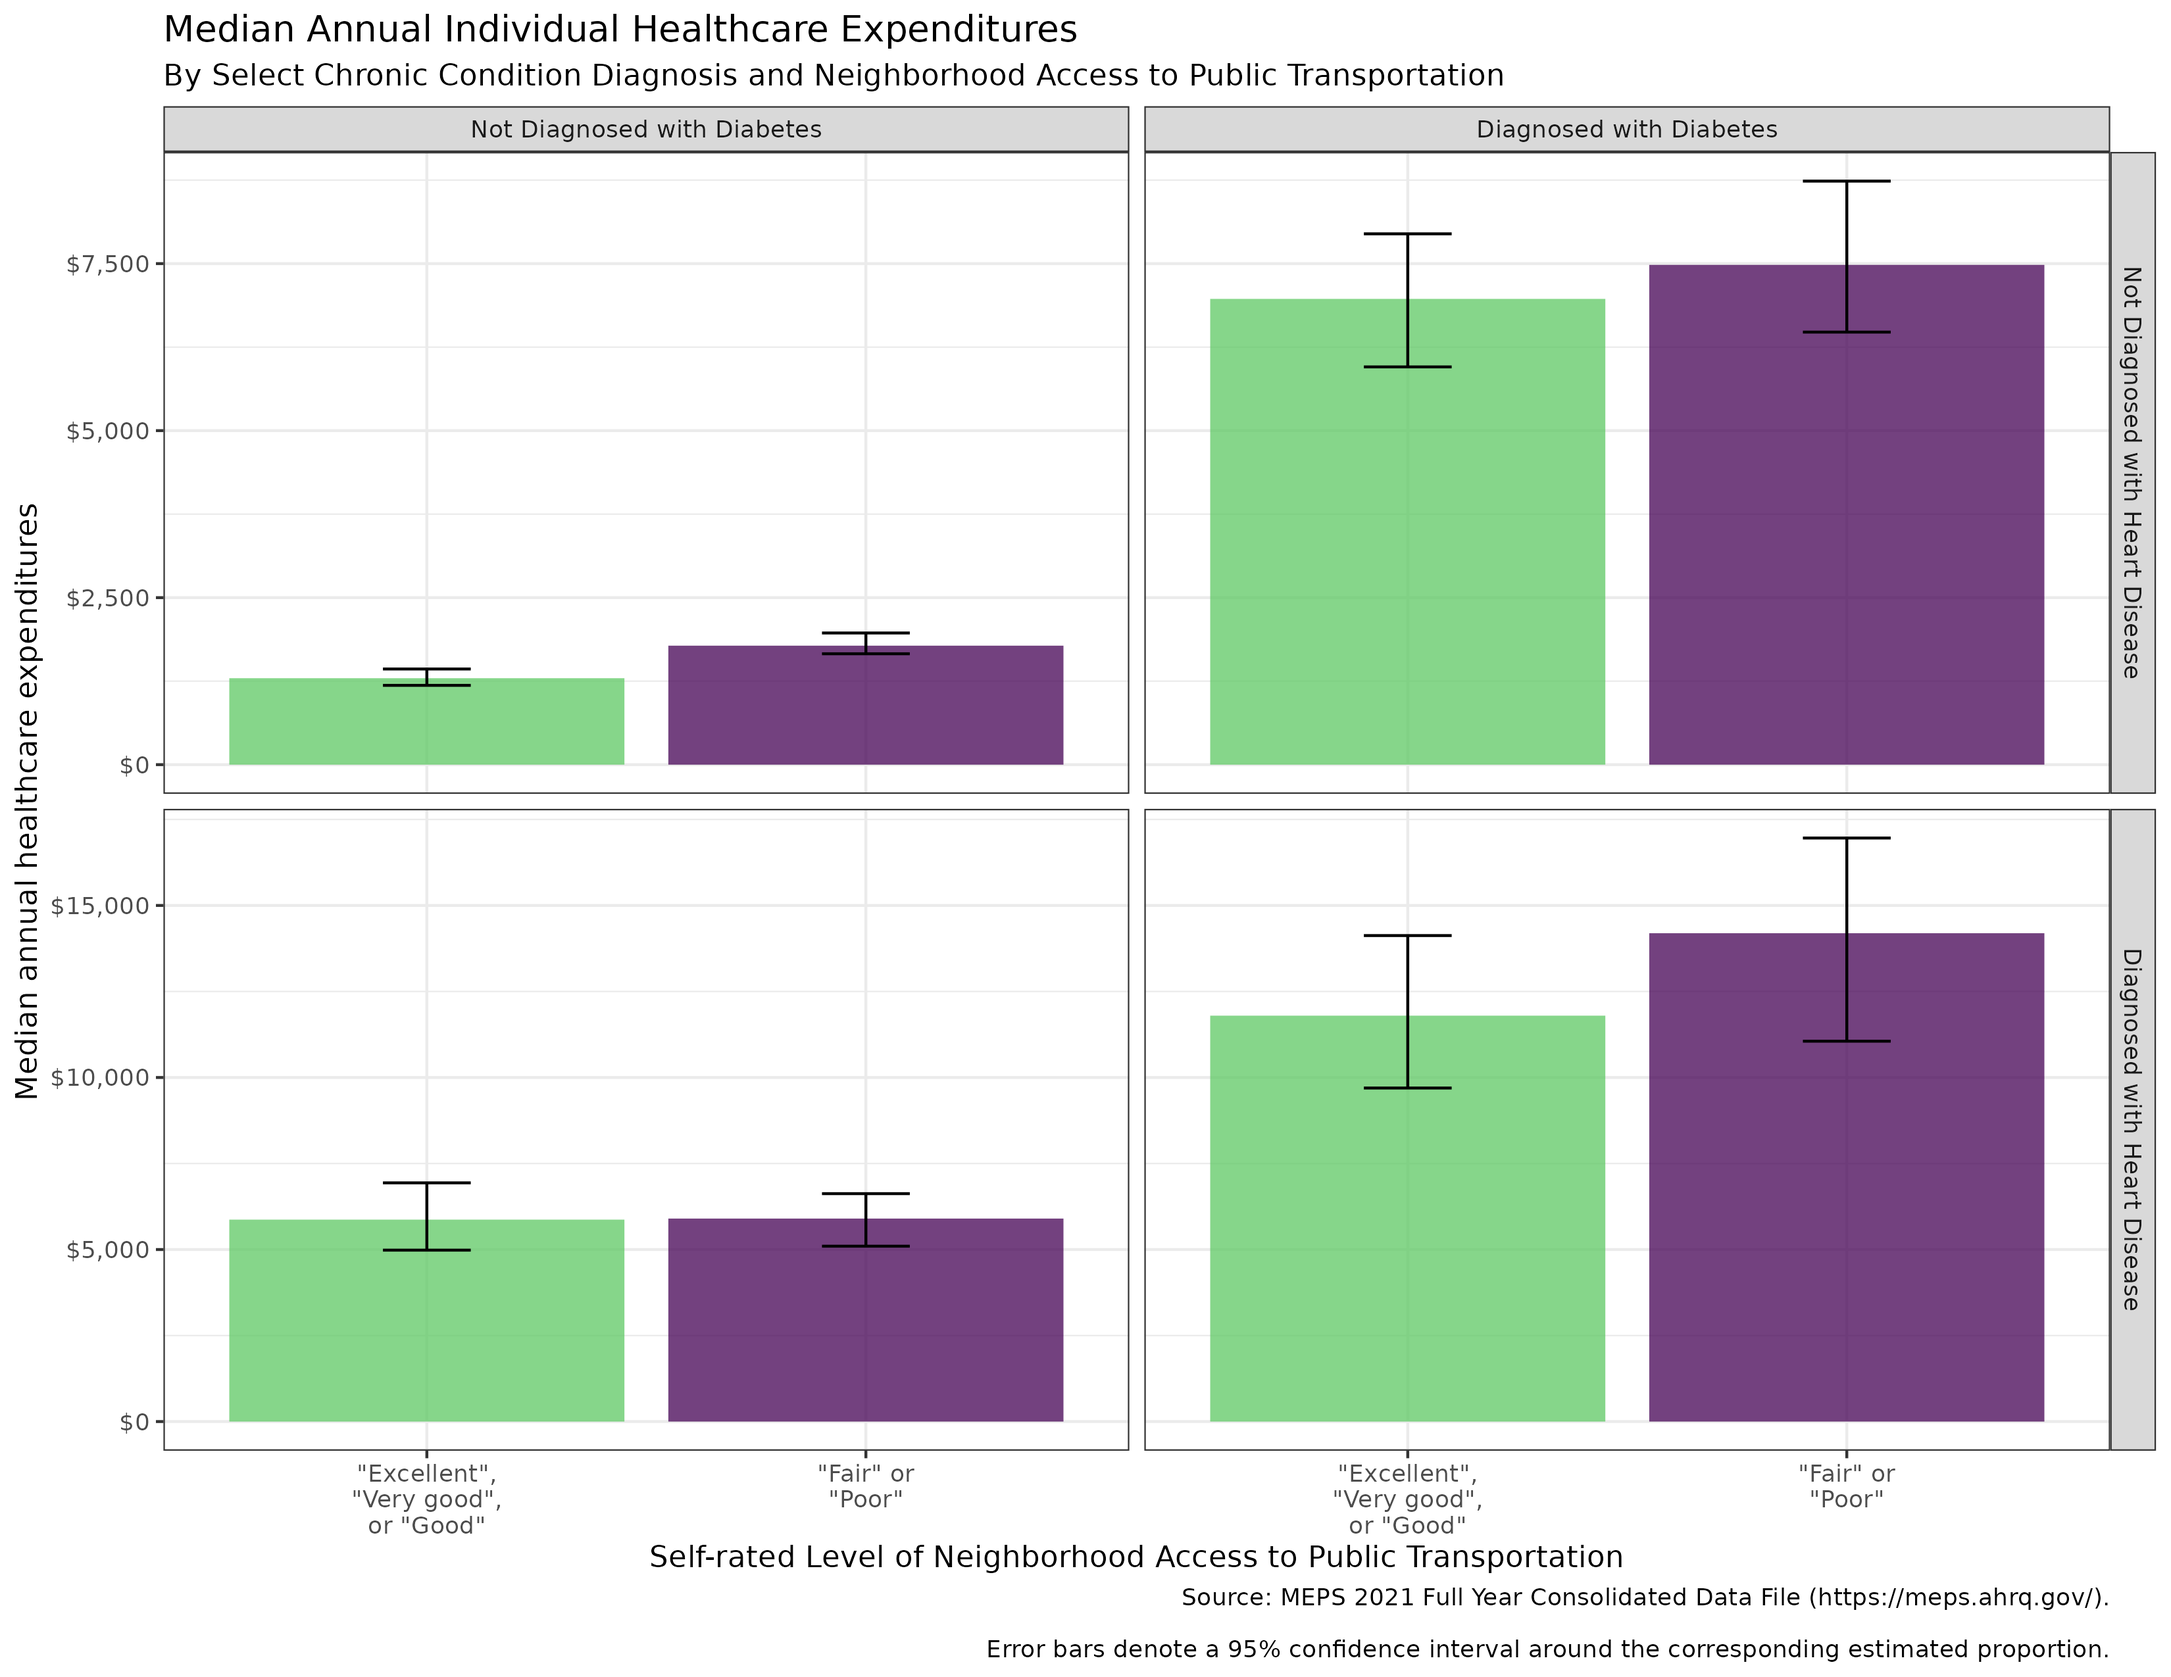
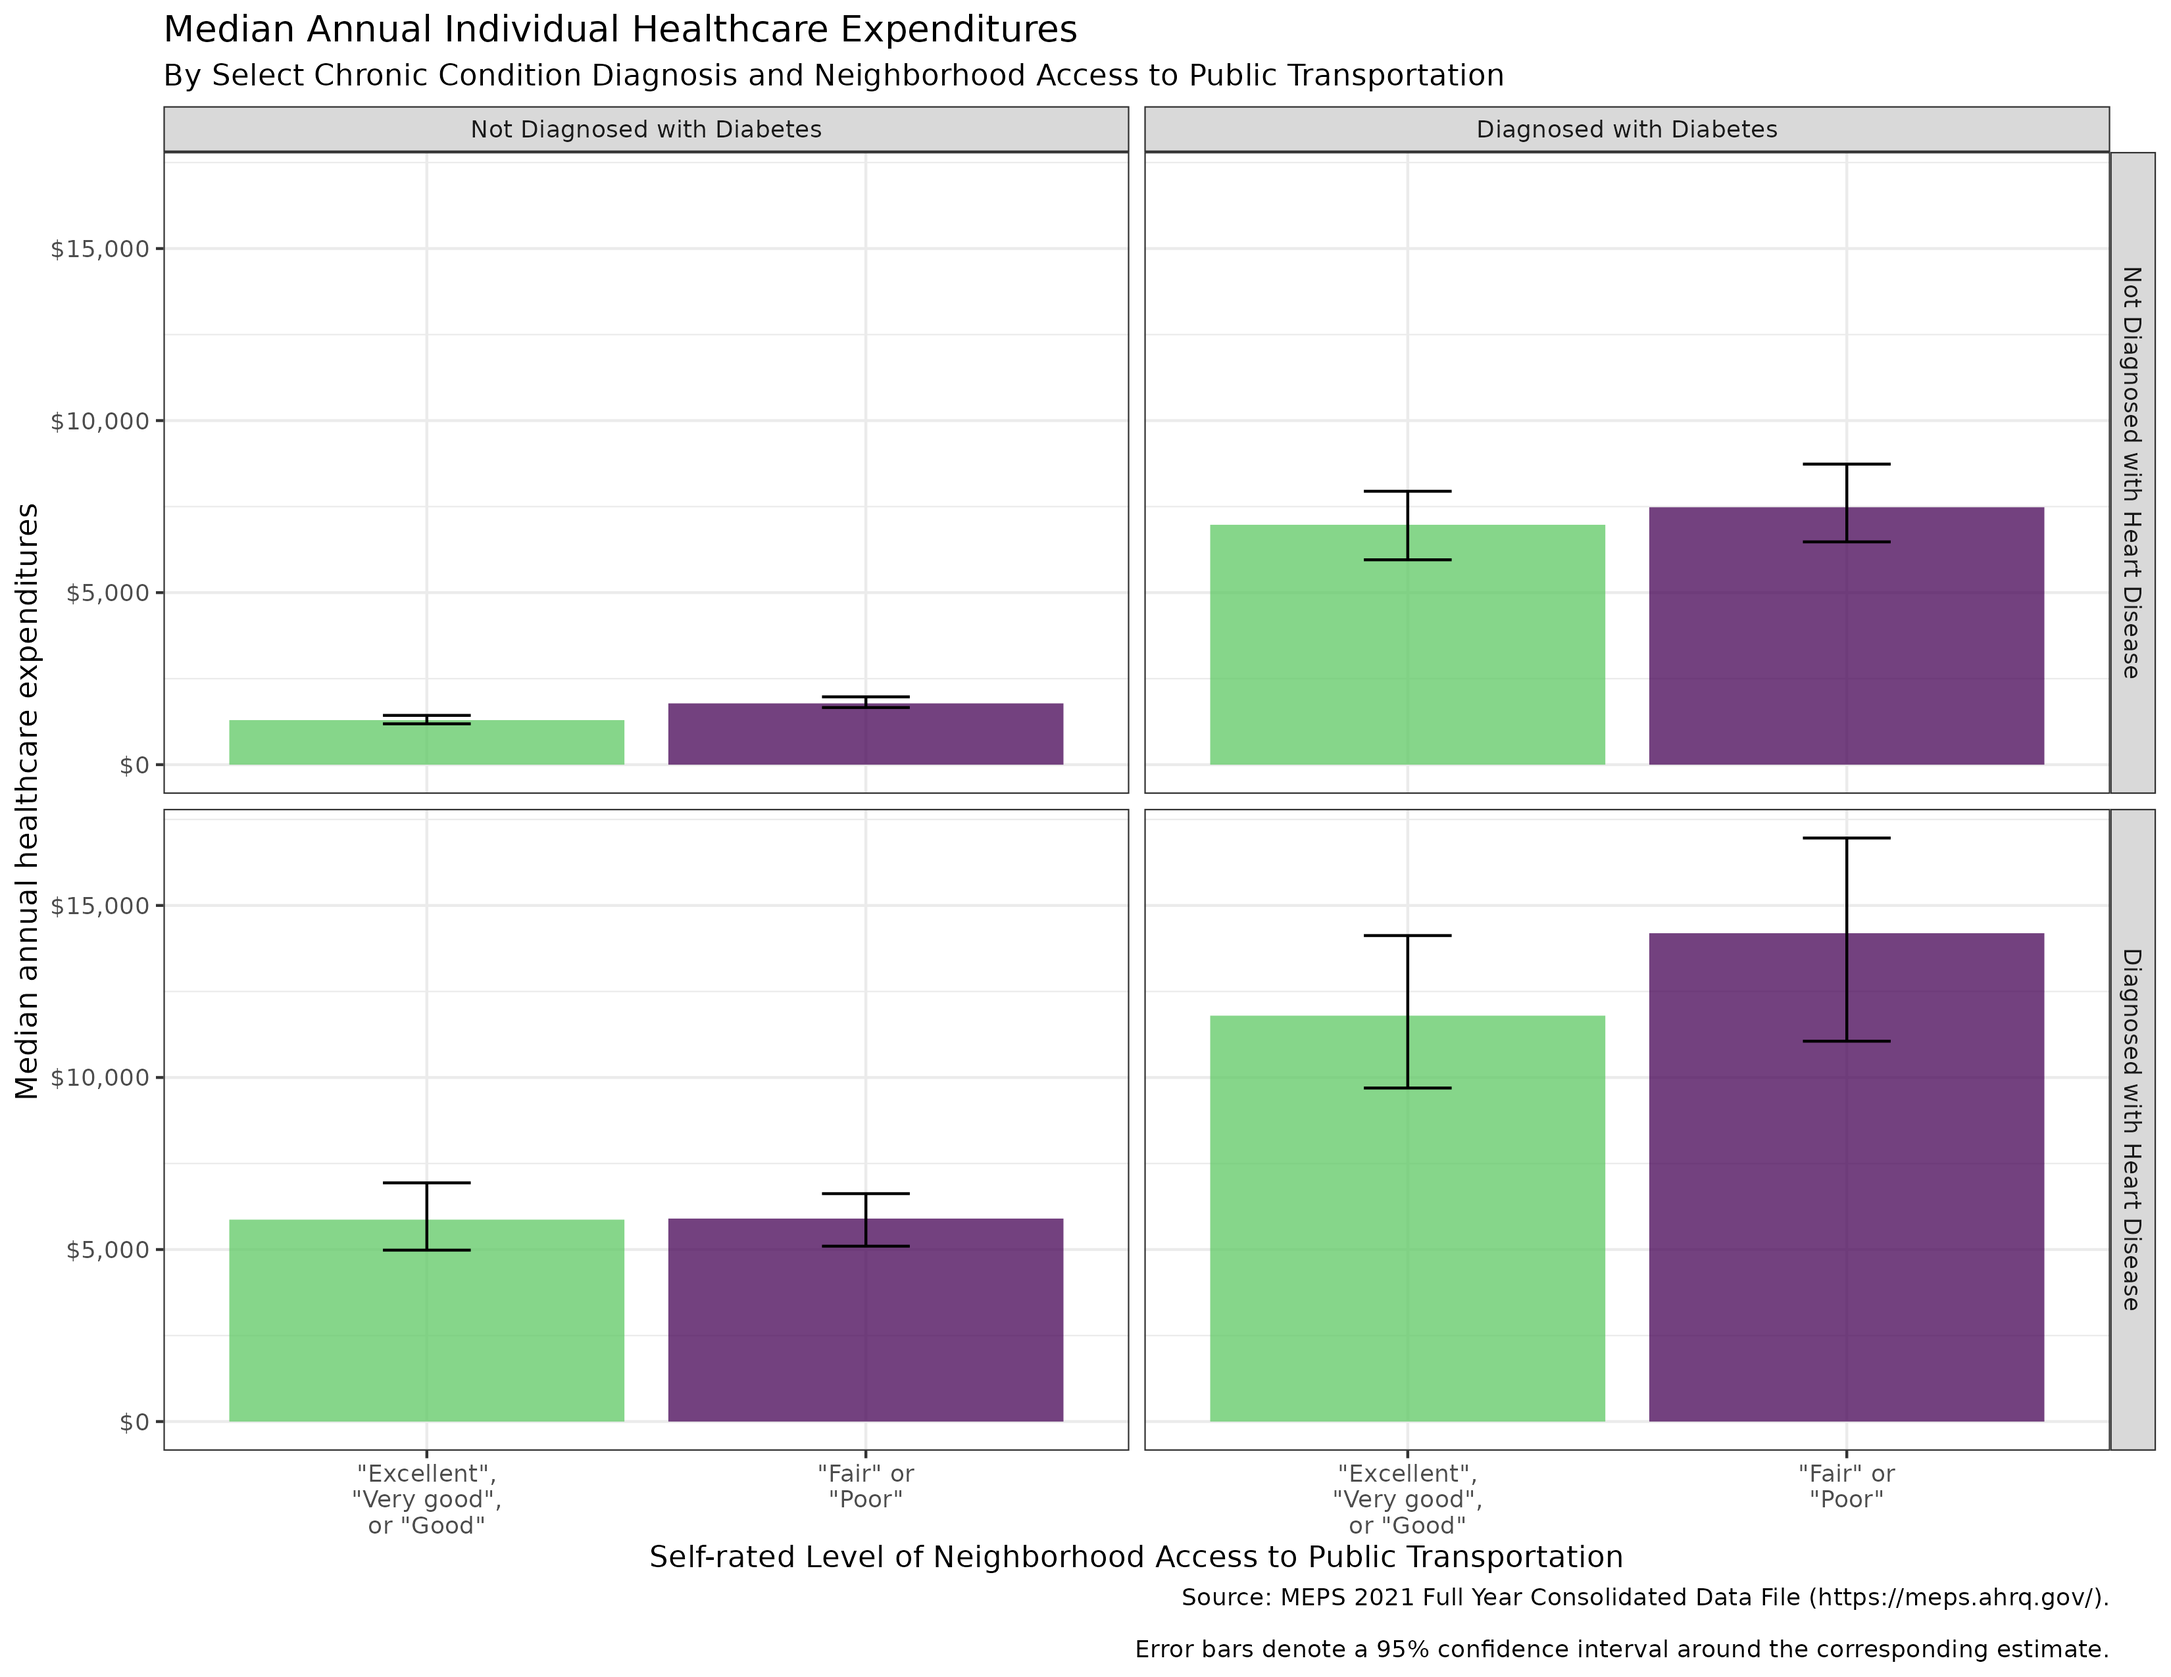
Update CC charts to fixed axes; add housing CC charts

diff --git a/README.md b/README.md
@@ -63,10 +63,19 @@ The work in this repository constitutes my own work and assertions and should no
 [Supporting data](outputs/data/housing_vs_genhealth.csv)
 
 ![image](outputs/charts/housing_vs_ip.png)
-[Supporting data](outputs/data/housing_vs_genhealth.csv)
+[Supporting data](outputs/data/housing_vs_ip.csv)
+
+![image](outputs/charts/housing_vs_ip_CC.png)
+[Supporting data](outputs/data/housing_vs_ip_CC.csv)
 
 ![image](outputs/charts/housing_vs_ed.png)
-[Supporting data](outputs/data/housing_vs_genhealth.csv)
+[Supporting data](outputs/data/housing_vs_ed.csv)
+
+![image](outputs/charts/housing_vs_ed_CC.png)
+[Supporting data](outputs/data/housing_vs_ed_CC.csv)
 
 ![image](outputs/charts/housing_vs_totexp.png)
-[Supporting data](outputs/data/housing_vs_genhealth.csv)
+[Supporting data](outputs/data/housing_vs_totexp.csv)
+
+![image](outputs/charts/housing_vs_totexp_CC.png)
+[Supporting data](outputs/data/housing_vs_totexp_CC.csv)
